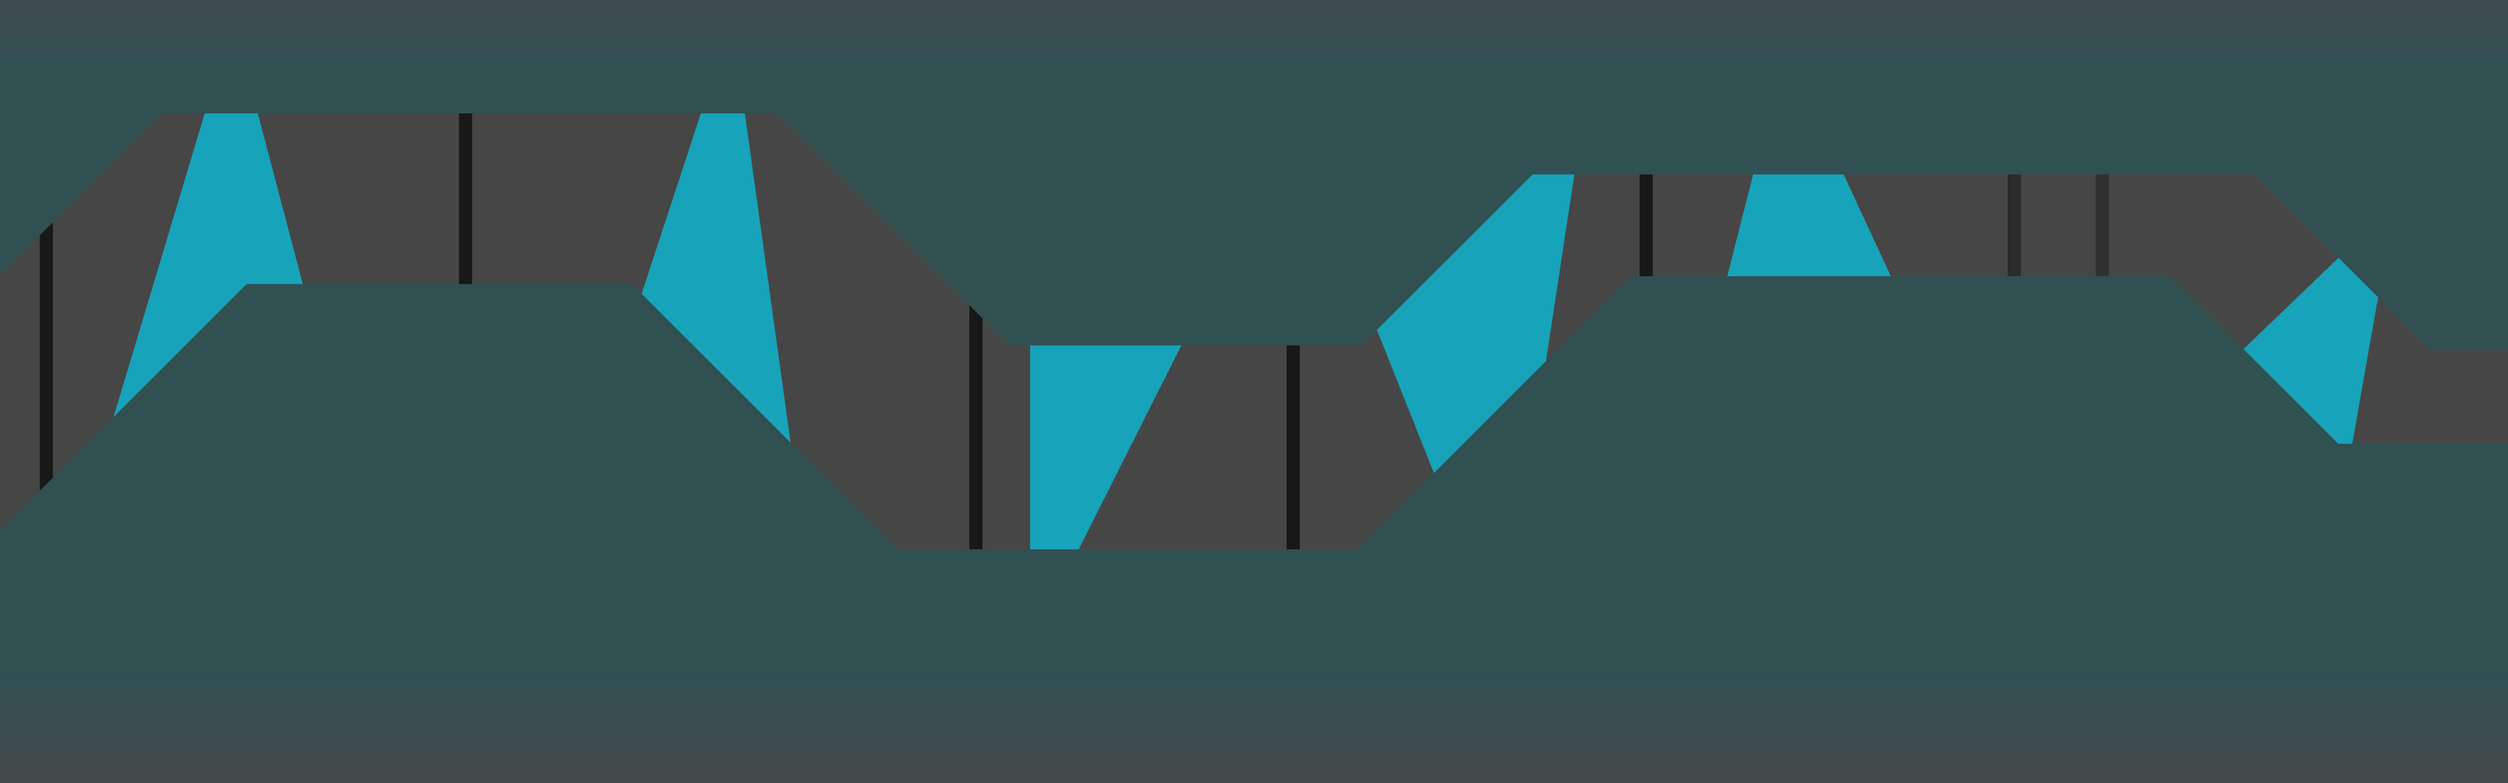
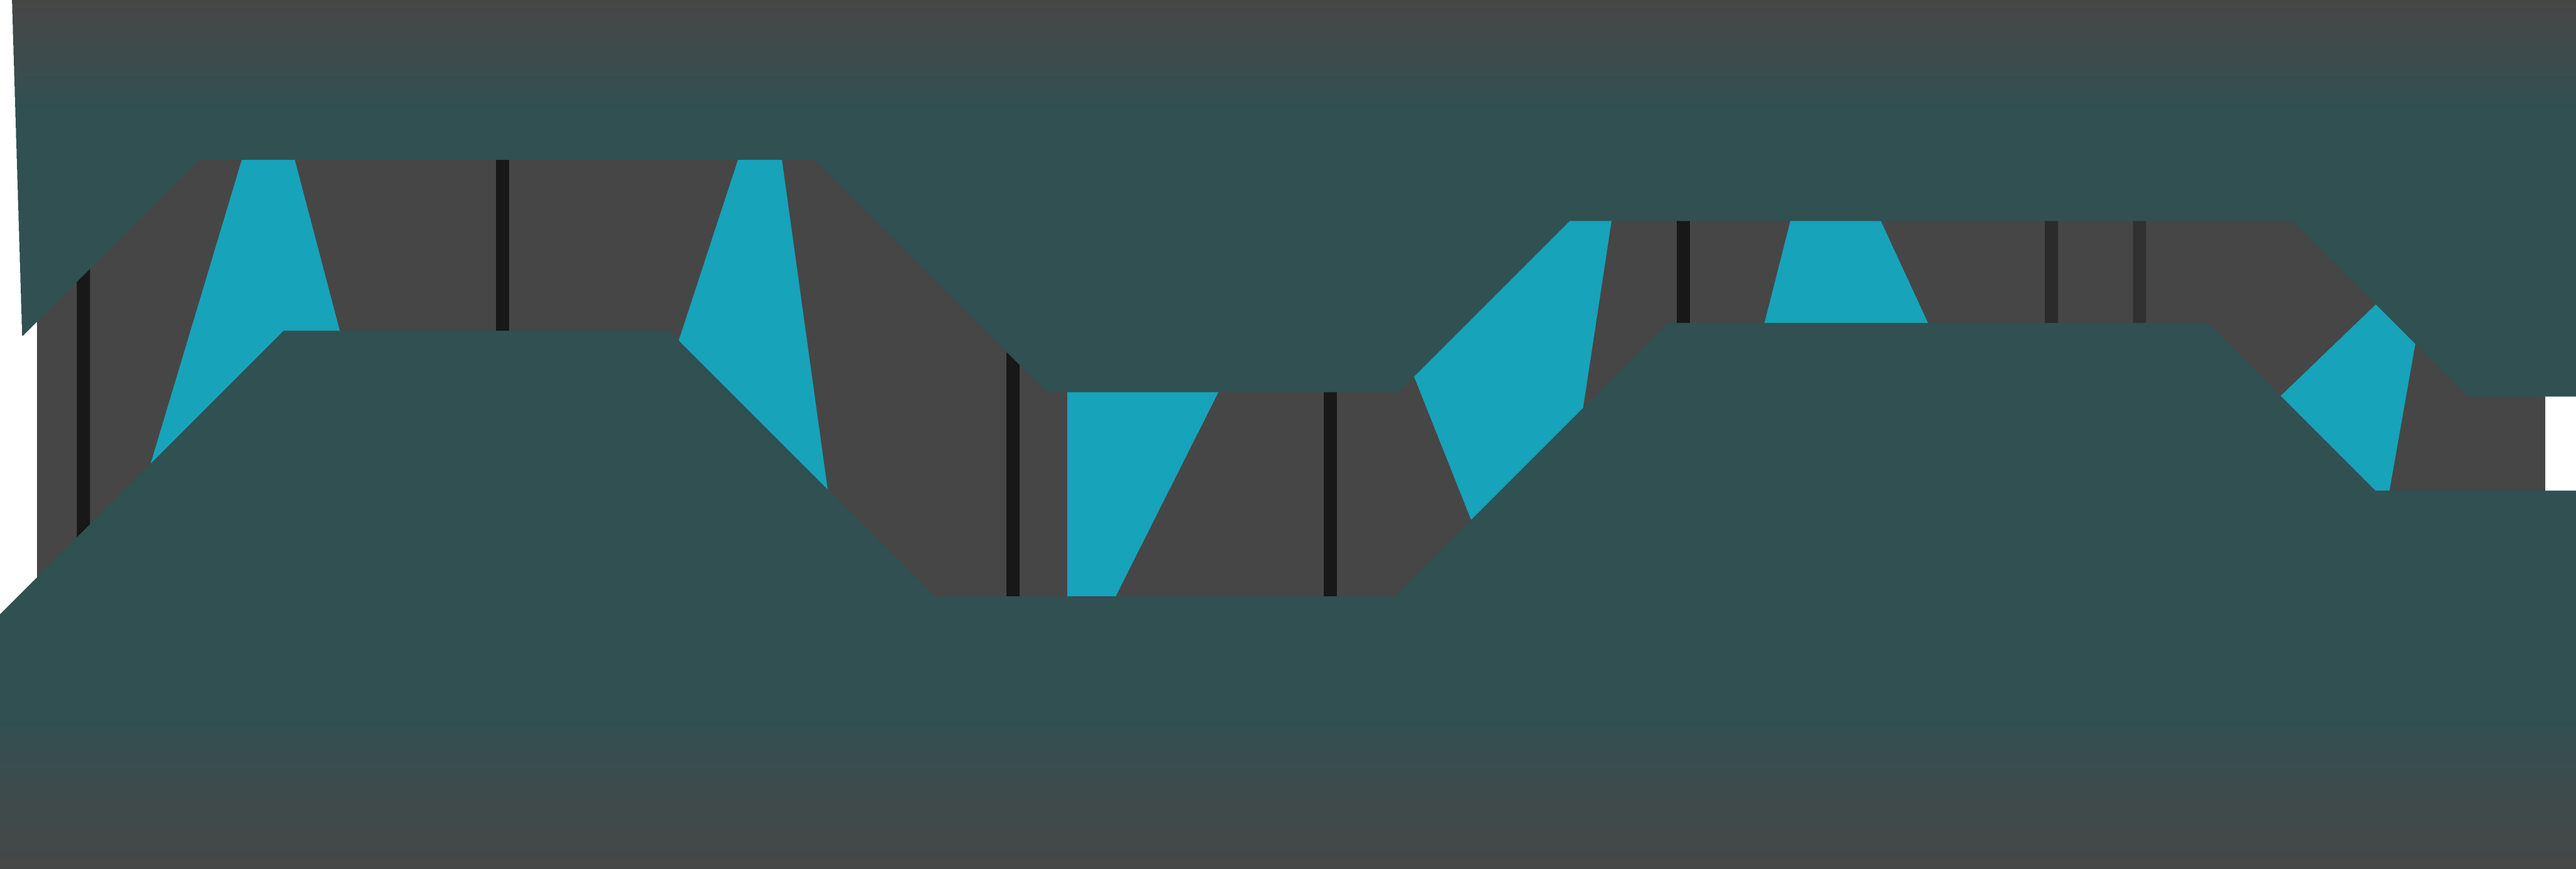
Fine-Truned animatons

diff --git a/src/index.scss b/src/index.scss
@@ -61,10 +61,11 @@ body {
   background-position: center center;
   background-repeat: no-repeat;
   background-size: cover;
+  background-color: #464646;
 
-  @media only screen and (max-width: 1760px) {
-    background-attachment: scroll;
-  }
+  // @media only screen and (max-width: 1760px) {
+  //   background-attachment: scroll;
+  // }
 }
 
 /*Home Section*/
@@ -93,7 +94,7 @@ body {
 .fade-image-animate {
   animation-name: fade-image-ani;
   animation-duration: 1.5s;
-  animation-delay: 700ms;
+  animation-delay: 800ms;
   animation-timing-function: cubic-bezier(0.19, 1, 0.22, 1);
   animation-fill-mode: forwards;
 }
@@ -185,17 +186,26 @@ ul {
   mask-position: center;
   mask-repeat: no-repeat;
 
-  animation: gradiant-fade-ani 40s ease infinite;
+  animation: gradiant-fade-ani 30s ease infinite;
 }
 
 @keyframes gradiant-fade-ani {
-  0% {
+  from {
     background-position: 0% 50%;
   }
-  50% {
+  to {
     background-position: 100% 50%;
   }
-  100% {
-    background-position: 0% 50%;
-  }
 }
+
+// @keyframes gradiant-fade-ani {
+//   0% {
+//     background-position: 0% 50%;
+//   }
+//   50% {
+//     background-position: 100% 50%;
+//   }
+//   100% {
+//     background-position: 0% 50%;
+//   }
+// }
